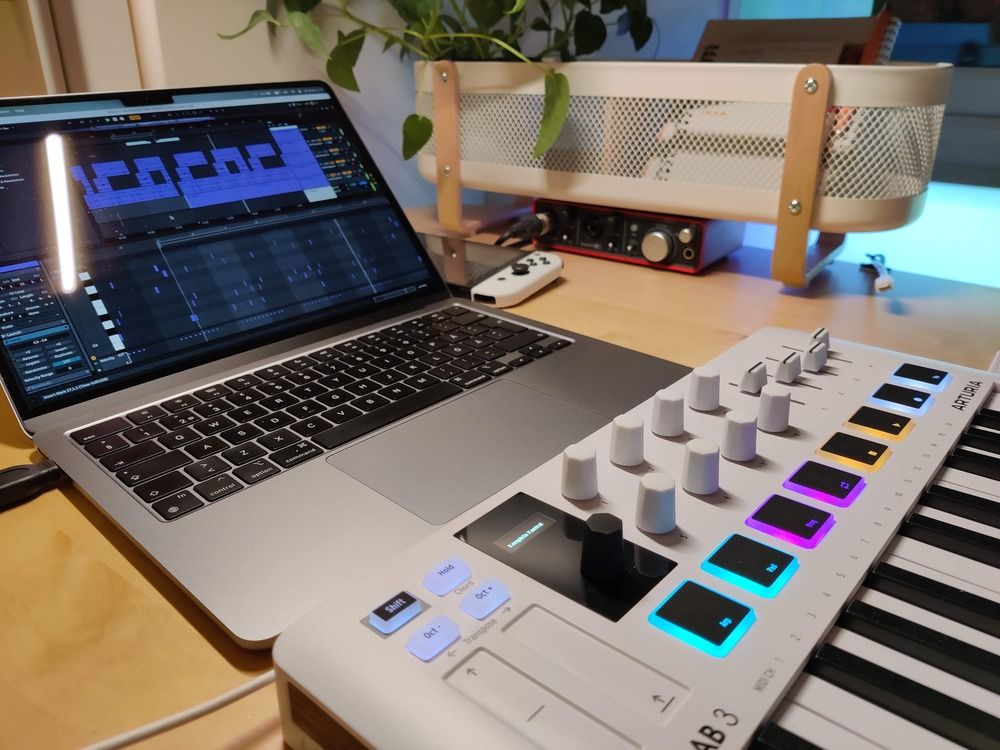
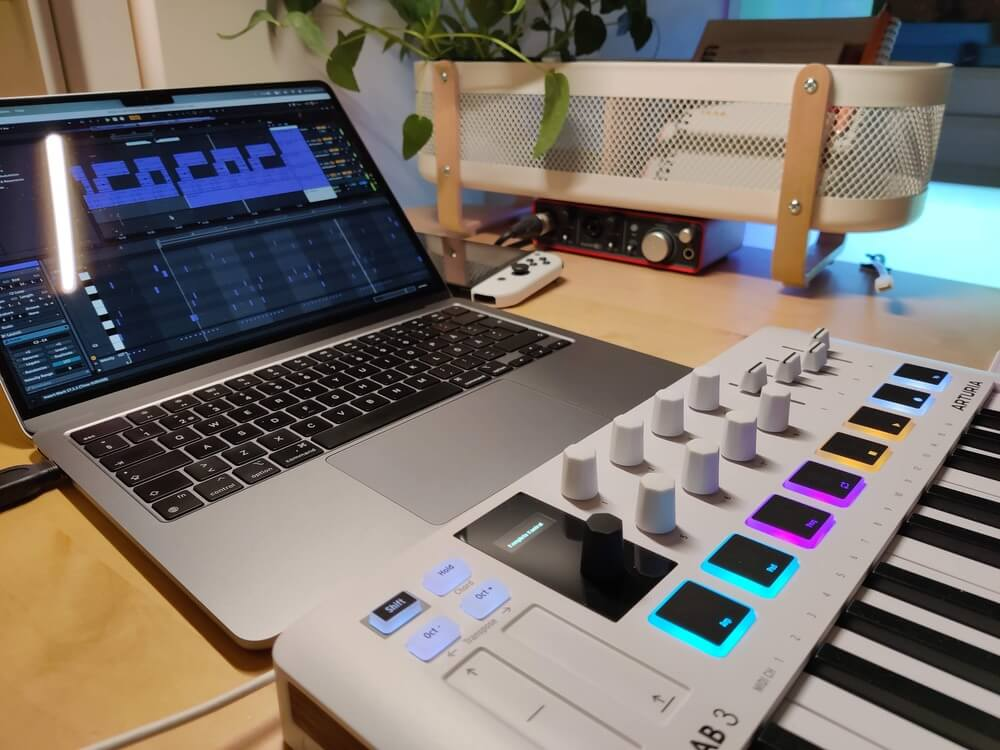
🍱 Web: Optimize images

Changed region(s): [[0.837, 0.644, 0.868, 0.6747], [0.775, 0.736, 0.806, 0.7667], [0.713, 0.7053, 0.744, 0.736]]

diff --git a/web/src/components/Glow.tsx b/web/src/components/Glow.tsx
@@ -1,8 +1,8 @@
 import { twMerge } from 'tailwind-merge';
 
 // These images are not optimized because optimization caused problems with loading in the Menu component.
-import blueberry from '@/assets/images/glow-blueberry.png';
-import orange from '@/assets/images/glow-orange.png';
+import blueberry from '@/assets/images/glow-blueberry.webp';
+import orange from '@/assets/images/glow-orange.webp';
 
 interface Props extends React.HTMLAttributes<HTMLDivElement> {
   color: 'blueberry' | 'orange';
